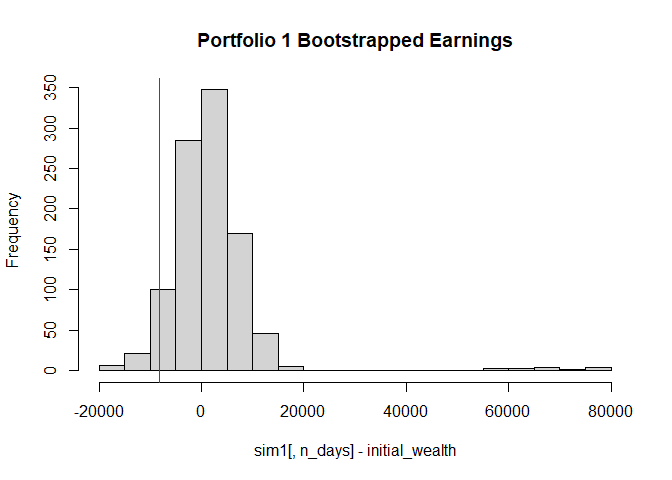
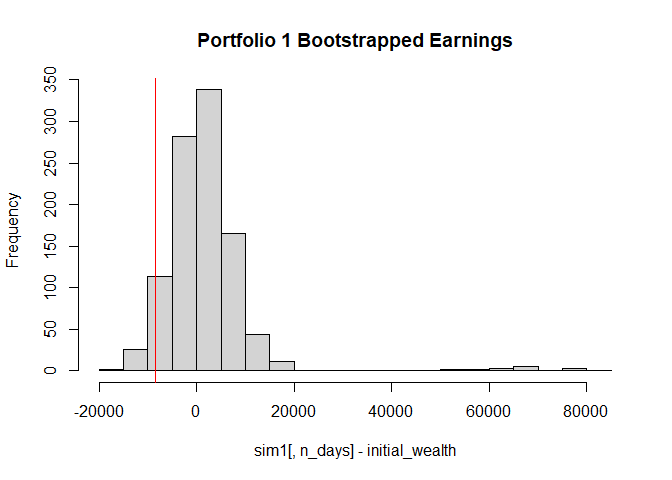
q5

diff --git a/Walker_Jocelyne_Exercises.md b/Walker_Jocelyne_Exercises.md
@@ -336,7 +336,9 @@ yellow color*
 ![](Walker_Jocelyne_Exercises_files/figure-markdown_strict/2.5-1.png)
 
 From this chart, we see two **frequently flown routes** with **highest
-room for improvement.**
+room for improvement.** We checked which routes these were by going into
+the data table and viewing the two most frequently flown routes with
+delays &gt;20 minutes.
 
 -   A Mesa Airlines (American Airlines operated) route from IAD to AUS,
     flown 631 times in 2008, with an average delay of 27 minutes.
@@ -416,11 +418,11 @@ Then, we simulate the 20-day trading period of this portfolio.
 ![](Walker_Jocelyne_Exercises_files/figure-markdown_strict/3.1.a-1.png)![](Walker_Jocelyne_Exercises_files/figure-markdown_strict/3.1.a-2.png)
 
     ##        5% 
-    ## -8155.048
+    ## -8453.319
 
 From the histograms of the portfolio values and earnings, we see that
 negative earnings are a possibility. The 5% value at risk based on a
-20-day bootstrapped period is **-$8279.31** for this portfolio.
+20-day bootstrapped period is **-$8155.05** for this portfolio.
 
 ### Portfolio 2: “Thrive on Volatility”
 
@@ -444,6 +446,7 @@ increasing their diversity. Here’s a breakdown of the portfolio:
     will not fall significantly during volatile markets
 
 ![](Walker_Jocelyne_Exercises_files/figure-markdown_strict/3.2-1.png)
+
 From the pairs plot, we see that these four ETFs are much less strongly
 correlated than the ETFs in Portfolio 1. Thus, I expect this portfolio
 to be “safer” and have a higher Value at Risk.
@@ -453,7 +456,7 @@ Then, we simulate the 20-day trading period of this portfolio.
 ![](Walker_Jocelyne_Exercises_files/figure-markdown_strict/3.2.a-1.png)![](Walker_Jocelyne_Exercises_files/figure-markdown_strict/3.2.a-2.png)
 
     ##        5% 
-    ## -5047.678
+    ## -5012.301
 
 From the histograms of the portfolio values and earnings, we see that
 negative earnings are a possibility. The 5% value at risk based on a
@@ -478,19 +481,16 @@ a smaller potential return. Here’s a breakdown of the portfolio:
     and 13% in bonds rated BBB.
 
 ![](Walker_Jocelyne_Exercises_files/figure-markdown_strict/3.3-1.png)
+
 From the pairs correlation matrix, we see that these Bond ETFs are less
 correlated than the ETFs in Portfolio 1 and Portfolio 2.
 
 Then, we simulate the 20-day trading period of this portfolio.
 
-![](Walker_Jocelyne_Exercises_files/figure-markdown_strict/3.3.a-1.png)
-
-    ## [1] 100394.5
-
-![](Walker_Jocelyne_Exercises_files/figure-markdown_strict/3.3.a-2.png)
+![](Walker_Jocelyne_Exercises_files/figure-markdown_strict/3.3.a-1.png)![](Walker_Jocelyne_Exercises_files/figure-markdown_strict/3.3.a-2.png)
 
     ##        5% 
-    ## -2553.164
+    ## -2539.063
 
 From the histograms of the portfolio values and earnings, we see that
 negative earnings are **still** a possibility. The 5% value at risk
@@ -502,7 +502,7 @@ Portfolio 1 and Portfolio 2.
 
 -   Portfolio 1 is best suited for longer-term investment. (In fact,
     some of these ETFs are in our team’s own IRA portfolios.) The 5% VaR
-    is the lowest at **-$8279.31**
+    is the lowest at **-$8155.05**
 
 -   Portfolio 2 is a better short-term risk fund. Instead of simply
     tracking the market, it attempts to hedge against market volatility
@@ -523,8 +523,128 @@ investors may be more likely to choose the portfolios that track the S&P
 Market segmentation
 -------------------
 
+![](Walker_Jocelyne_Exercises_files/figure-markdown_strict/4.1-1.png)
+
 Author attribution
 ------------------
+
+In order to predict the author of an article on the basis of the
+article’s textual content, we had to first build a training model to
+give a baseline dictionary to predict “new” testing articles.
+
+First, we read in the 50 training articles for each of the 50 different
+authors.
+
+    ## <<DocumentTermMatrix (documents: 2500, terms: 32669)>>
+    ## Non-/sparse entries: 619802/81052698
+    ## Sparsity           : 99%
+    ## Maximal term length: 40
+    ## Weighting          : term frequency (tf)
+
+    ## <<DocumentTermMatrix (documents: 2500, terms: 32570)>>
+    ## Non-/sparse entries: 537861/80887139
+    ## Sparsity           : 99%
+    ## Maximal term length: 40
+    ## Weighting          : term frequency (tf)
+
+    ## <<DocumentTermMatrix (documents: 2500, terms: 3393)>>
+    ## Non-/sparse entries: 422971/8059529
+    ## Sparsity           : 95%
+    ## Maximal term length: 40
+    ## Weighting          : term frequency (tf)
+
+After reading in the data, we pre-processed the text in the articles.
+
+-   Converting all text to lowercase
+
+-   Remove numbers
+
+-   Remove punctuation
+
+-   Remove excess white space
+
+After these four steps, we’re down to **2500 documents** with **32,669
+terms.**
+
+-   Remove stop and filler words, based on the “basic English” stop
+    words
+
+After removing filler words, we’re down to **32,570 terms.**
+
+-   Removed words that have count 0 in &gt; 99% of documents
+
+Thus cuts the long tail significantly to only **3393 terms.**
+
+-   Finally, we converted the raw counts of words in each document to
+    TF-IDF weights.
+
+**Then, we replicated the same process to read in the 50 testing
+articles for the authors. There are 3448 terms in the testing data,
+compared to only 3393 terms in the training data.**
+
+    ## <<DocumentTermMatrix (documents: 2500, terms: 33472)>>
+    ## Non-/sparse entries: 628611/83051389
+    ## Sparsity           : 99%
+    ## Maximal term length: 45
+    ## Weighting          : term frequency (tf)
+
+    ## <<DocumentTermMatrix (documents: 2500, terms: 33373)>>
+    ## Non-/sparse entries: 545286/82887214
+    ## Sparsity           : 99%
+    ## Maximal term length: 45
+    ## Weighting          : term frequency (tf)
+
+    ## <<DocumentTermMatrix (documents: 2500, terms: 3448)>>
+    ## Non-/sparse entries: 428509/8191491
+    ## Sparsity           : 95%
+    ## Maximal term length: 39
+    ## Weighting          : term frequency (tf)
+
+**Now, we have to ensure the words in the training set are identical to
+the words in the testing set. We’ve chosen to ignore words that are in
+the testing set and not found in the training set. This removes the 55
+“new” terms from the training data, less than 2% of the training terms.
+Now, both the training and testing groups have 3393 terms.**
+
+    ## <<DocumentTermMatrix (documents: 2500, terms: 3393)>>
+    ## Non-/sparse entries: 379314/8103186
+    ## Sparsity           : 96%
+    ## Maximal term length: 40
+    ## Weighting          : term frequency - inverse document frequency (normalized) (tf-idf)
+
+### At this point, we have a training set with 3393 predictors. In order to simplify our predictors, we perform a Principal Component Analysis (PCA) to reduce the number of predictors.
+
+First, this requires us to eliminate columns that have 0 entries. This
+reduces us to eliminate columns where the term is not found in any data
+in the test or train set. Then, we ensure the term lists are identical
+by using only the intersecting columns of the train and test data,
+leaving us with 8,317,500 elements in both the train and test matrices.
+
+Once the data is in the same format, we use PCA analysis to choose the
+number of principal components.
+
+![](Walker_Jocelyne_Exercises_files/figure-markdown_strict/5.4.1-1.png)
+
+We’ve chosen to stop at 1000 principal components that explain ~80% of
+the variance. After these components were chosen, the data cleaning and
+pre-processing is complete and we are ready to run models to predict
+authors.
+
+### KNN
+
+    ## [1] 815
+
+    ## [1] 0.326
+
+### Random Forest
+
+    ## [1] 0.7192
+
+### Naive Bayes
+
+    ## [1] 0.3144
+
+### Logistic Regression
 
 Association rule mining
 -----------------------
